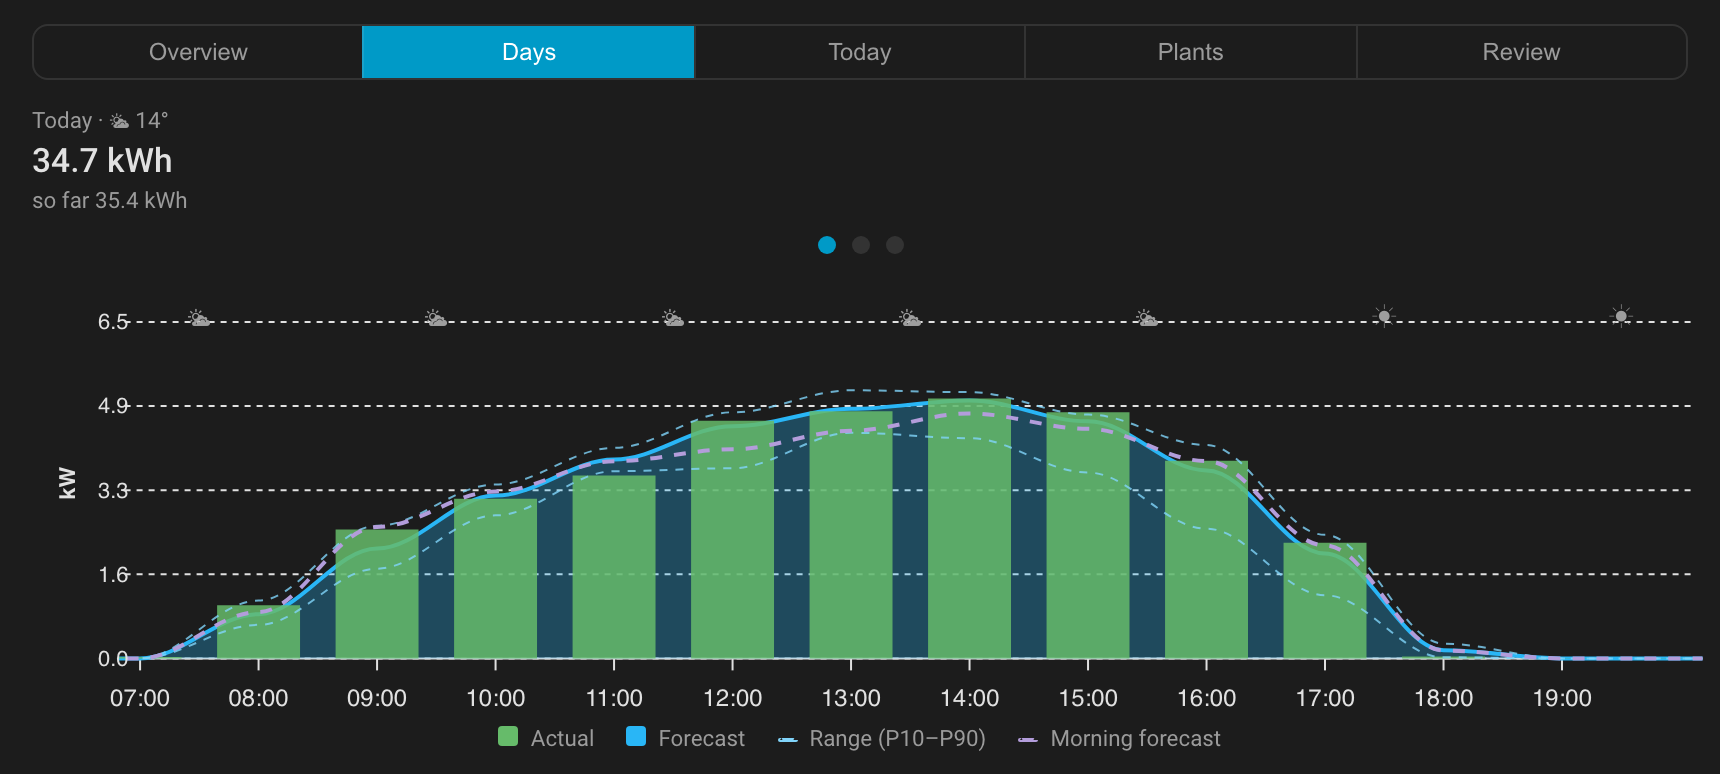
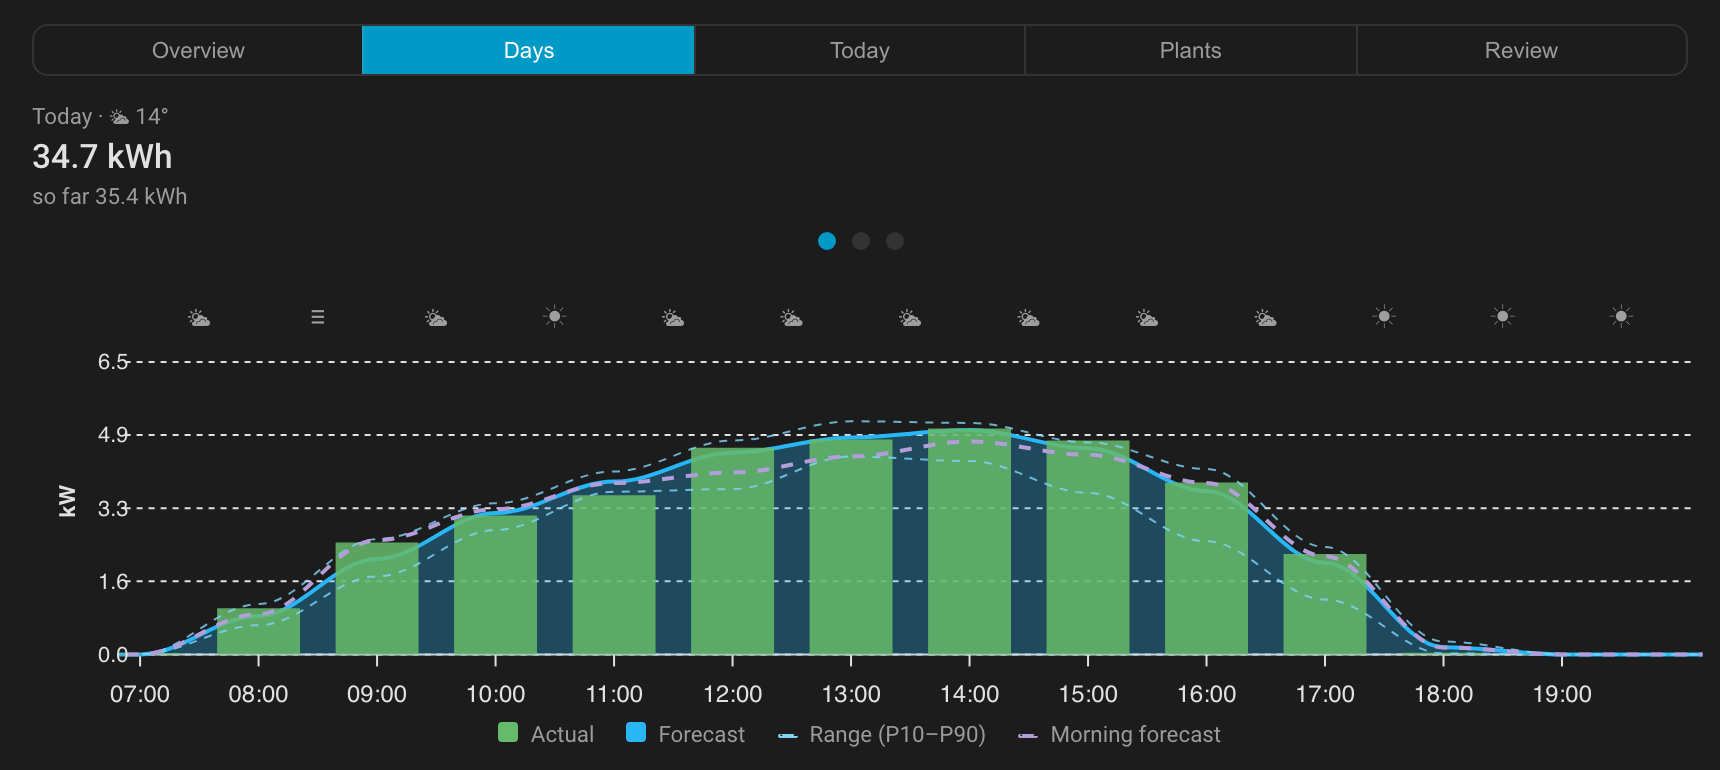
feat: actual production in the plants view, weather symbols above the grid; release 0.5.3

diff --git a/custom_components/ml_pv_forecast/cards/ml-pv-forecast-card.js b/custom_components/ml_pv_forecast/cards/ml-pv-forecast-card.js
@@ -26,6 +26,7 @@ const TEXT = {
     todayTab: "Today",
     plants: "Plants",
     total: "Total",
+    barsHint: "lines: actual · areas: forecast",
     noPlants: "No plants found.",
     review: "Review",
     actual: "Actual",
@@ -54,6 +55,7 @@ const TEXT = {
     todayTab: "Heute",
     plants: "Anlagen",
     total: "Gesamt",
+    barsHint: "Linien: tatsächlich · Flächen: Prognose",
     noPlants: "Keine Anlagen gefunden.",
     review: "Rückblick",
     actual: "Tatsächlich",
@@ -82,6 +84,8 @@ const TEXT = {
 const COLORS = { forecast: "#29B6F6", band: "#81D4FA", actual: "#66BB6A", morning: "#B39DDB" };
 const VIEWS = ["overview", "carousel", "today", "plants", "review"];
 const PLANT_COLORS = ["#29B6F6", "#FFCA28", "#AB47BC", "#26A69A", "#EF5350", "#8D6E63"];
+// Lighter shades of the plant colours for the actual-production lines drawn over the areas.
+const PLANT_LIGHT = ["#E1F5FE", "#FFF8E1", "#F3E5F5", "#E0F2F1", "#FFEBEE", "#EFEBE9"];
 const HOUR = 3600000;
 const DAY = 24 * HOUR;
 // Hide the inner apexcharts card frame so the charts sit flush inside this card.
@@ -121,6 +125,21 @@ const GEN = {
       });
     }
     return Object.entries(sums).map(([t, v]) => [Number(t), v]).sort((a, b) => a[0] - b[0]);`,
+  // Hourly actual power summed over `ids`, on the hours any of `allIds` has data (aligned series).
+  stackedActual: (ids, allIds) => `
+    const add = (id, into) => (hass.states[id]?.attributes.actual || []).forEach(r => {
+      const t = new Date(r.time); t.setMinutes(0, 0, 0);
+      (into[t.getTime()] ??= []).push(r.w);
+    });
+    const all = {};
+    for (const id of ${JSON.stringify(allIds)}) add(id, all);
+    const sums = {};
+    for (const id of ${JSON.stringify(ids)}) {
+      const own = {};
+      add(id, own);
+      for (const [t, v] of Object.entries(own)) sums[t] = (sums[t] || 0) + v.reduce((a, b) => a + b, 0) / v.length / 1000;
+    }
+    return Object.keys(all).map(t => [Number(t), sums[t] || 0]).sort((a, b) => a[0] - b[0]);`,
   review: (index, key) => `
     const day = (entity.attributes.review || [])[${index}];
     if (!day) return [];
@@ -404,6 +423,7 @@ class MlPvForecastCard extends HTMLElement {
                 font-size: 0.8em; color: var(--secondary-text-color); padding: 0 12px; }
       .legend span::before { content: ""; display: inline-block; width: 10px; height: 10px;
                              border-radius: 2px; margin-right: 6px; background: var(--c); }
+      .legend span.plain::before { display: none; }
       .legend span.dash::before { height: 0; border-top: 2px dashed var(--c); background: none;
                                   vertical-align: middle; }
       .message { padding: 16px; color: var(--secondary-text-color); }
@@ -473,9 +493,10 @@ class MlPvForecastCard extends HTMLElement {
       return (this._dayIndex === 0 ? items.overview : items.today).join("");
     }
     if (this._view === "plants") {
-      return this._plantStates()
+      const plants = this._plantStates()
         .map((p, i) => item(p.attributes.plant, PLANT_COLORS[i % PLANT_COLORS.length]))
         .join("");
+      return `${plants}<span class="plain">${t.barsHint}</span>`;
     }
     return items[this._view].join("");
   }
@@ -769,12 +790,14 @@ class MlPvForecastCard extends HTMLElement {
         now: i === 0,
         series,
       });
+      config.apex_config.grid.padding.top = 22;
       config.apex_config.annotations = {
         xaxis: weatherMarks(
           a.hourly,
           dayStart + from * HOUR,
           dayStart + to * HOUR,
-          weatherStep(this._cardWidth(), to - from)
+          weatherStep(this._cardWidth(), to - from),
+          -22 // above the top grid line, in the padding strip below
         ),
       };
       specs.push({
@@ -881,9 +904,15 @@ MlPvForecastCard.prototype._plantStates = function () {
 MlPvForecastCard.prototype._plantsTable = function (t) {
   const days = [0, 1, 2].slice(0, this._config.days).map((d) => this._dayName(d, t));
   const keys = ["today", "tomorrow", "day_after_tomorrow"];
+  // Today: forecast and, in brackets, the actual production so far.
+  const actualKwh = (s) => (s.attributes.actual || []).reduce((sum, r) => sum + r.w, 0) / 4 / 1000;
+  const sofar = (s) =>
+    ` <span class="sub">(${actualKwh(s).toLocaleString(this._lang(), { maximumFractionDigits: 1 })})</span>`;
   const rows = this._plantStates().map((p, i) => {
     const daily = p.attributes.daily || {};
-    const cells = days.map((_, d) => `<td>${this._kwh(daily[keys[d]])}</td>`).join("");
+    const cells = days
+      .map((_, d) => `<td>${this._kwh(daily[keys[d]])}${d === 0 ? sofar(p) : ""}</td>`)
+      .join("");
     return `<tr><td style="--c:${PLANT_COLORS[i % PLANT_COLORS.length]}">${p.attributes.plant}</td>${cells}</tr>`;
   });
   const total = Object.values(this._hass.states).find(
@@ -891,7 +920,9 @@ MlPvForecastCard.prototype._plantsTable = function (t) {
   );
   if (total && rows.length > 1) {
     const daily = total.attributes.daily || {};
-    const cells = days.map((_, d) => `<td><b>${this._kwh(daily[keys[d]])}</b></td>`).join("");
+    const cells = days
+      .map((_, d) => `<td><b>${this._kwh(daily[keys[d]])}</b>${d === 0 ? sofar(total) : ""}</td>`)
+      .join("");
     rows.push(`<tr class="total"><td style="--c:transparent"><b>${t.total}</b></td>${cells}</tr>`);
   }
   return `<table class="plants"><tr><th></th>${days.map((d) => `<th>${d}</th>`).join("")}</tr>${rows.join("")}</table>`;
@@ -900,6 +931,7 @@ MlPvForecastCard.prototype._plantsTable = function (t) {
 MlPvForecastCard.prototype._plantsSpec = function (t) {
   // The next days per plant, stacked, in one continuous chart.
   const plants = this._plantStates();
+  const ids = plants.map((p) => p.entity_id);
   const hourly = (s) => s.attributes.hourly || [];
   const totals = {};
   plants.forEach((p) =>
@@ -930,22 +962,35 @@ MlPvForecastCard.prototype._plantsSpec = function (t) {
     height: 260,
     // Stacked by hand: series i shows the sum of plants 0..i. Drawn from the largest sum down, so
     // each plant's band sits on top of the ones before it.
-    series: plants
-      .map((p, i) =>
-        this._series(p.entity_id, p.attributes.plant, PLANT_COLORS[i % PLANT_COLORS.length], GEN.stacked(plants.slice(0, i + 1).map((q) => q.entity_id)), {
-          type: "area",
-          opacity: 0.85,
-          stroke_width: 1,
-        })
-      )
-      .reverse(),
+    // Forecast as areas, today's actual production as light step lines, both stacked by plant.
+    // (Bars of several series would be drawn side by side, not on top of each other.)
+    series: [
+      ...plants
+        .map((p, i) =>
+          this._series(p.entity_id, p.attributes.plant, PLANT_COLORS[i % PLANT_COLORS.length], GEN.stacked(ids.slice(0, i + 1)), {
+            type: "area",
+            opacity: 0.85,
+            stroke_width: 1,
+          })
+        )
+        .reverse(),
+      ...plants
+        .map((p, i) =>
+          this._series(p.entity_id, `${p.attributes.plant} (${t.actual})`, PLANT_LIGHT[i % PLANT_LIGHT.length], GEN.stackedActual(ids.slice(0, i + 1), ids), {
+            type: "line",
+            curve: "stepline",
+            stroke_width: 2.5,
+          })
+        )
+        .reverse(),
+    ],
   });
-  // The tooltip shows each plant's own power: its sum minus the sum below it (next series).
+  // The tooltip shows each plant's own power: its sum minus the sum below it, which is the next
+  // series within the same group (forecast areas first, then actual bars, n series each).
   config.apex_config.tooltip = {
     x: { format: "ddd HH:mm" },
     y: {
-      formatter:
-        "EVAL:function(value, { seriesIndex, dataPointIndex, w }) { const below = w.globals.series[seriesIndex + 1]; const own = value - (below ? below[dataPointIndex] || 0 : 0); return own.toFixed(2) + ' kW'; }",
+      formatter: `EVAL:function(value, { seriesIndex, dataPointIndex, w }) { const n = ${plants.length}; const below = seriesIndex % n < n - 1 ? w.globals.series[seriesIndex + 1] : null; const own = value - (below ? below[dataPointIndex] || 0 : 0); return own.toFixed(2) + ' kW'; }`,
     },
   };
   const daylight = hourly(plants[0]).filter((r) => r.p50 > 0);

diff --git a/README.md b/README.md
@@ -177,8 +177,9 @@ Five views, switched with the tabs at the top of the card:
   switching automatically every `interval` seconds; the dots jump to a day.
 - **Rest of today** – what is still to come today in 15-minute steps: expected energy with range,
   the strongest hour and when production ends.
-- **Plants** – the next days per plant as stacked areas (their top edge is the total), with a
-  table of each plant's and the total daily energy.
+- **Plants** – the next days per plant as stacked areas (their top edge is the total) and today's
+  actual production per plant as light lines on top, with a table of each plant's and the total
+  daily energy (today with the actual production so far in brackets).
 - **Review** – step back through the last 7 days with ‹ ›: this morning's forecast against the
   actual production, the hit rate and how many hours were inside the range.
 

diff --git a/CHANGELOG.md b/CHANGELOG.md
@@ -1,5 +1,11 @@
 # Changelog
 
+## 0.5.3 – 2026-10-12
+
+- Card, Plants view: today's actual production per plant as light lines over the forecast areas,
+  and the actual energy so far next to today's forecast in the table.
+- Card: weather symbols sit above the top grid line instead of on it.
+
 ## 0.5.2 – 2026-10-12
 
 - Card on narrow screens: weather symbols spaced by the available width, weekday names instead of
